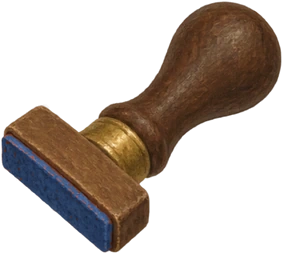
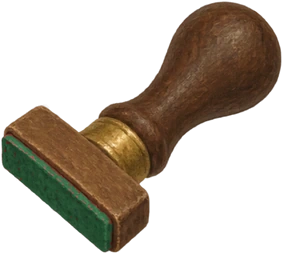
Onay mührü yeşil
Onay mührünün mürekkebi ve aracın lastiği maviden yeşile alındı
(Damga.RENKLER "yesil"; tools/sanat/ret_damgasi.py). Belgeler güncellendi.

Claude-Session: https://claude.ai/code/session_01VHuFWDfY6eBCXGfyDdiS8G

Changed region(s): [[0.0, 0.5236, 0.3958, 0.9921]]

diff --git a/tools/sanat/ret_damgasi.py b/tools/sanat/ret_damgasi.py
@@ -105,10 +105,10 @@ def main() -> None:
     cikti[..., 3] = (np.clip(ret, 0, 1) * 255).astype(np.uint8)
     Image.fromarray(cikti, "RGBA").save(DAMGA / "ret.webp", lossless=True, quality=100, method=6, exact=True)
 
-    # denetim: kırmızı mürekkeple kâğıt üstünde ret, mavi mürekkeple onay
+    # denetim: kırmızı mürekkeple kâğıt üstünde ret, yeşil mürekkeple onay
     HAM.mkdir(parents=True, exist_ok=True)
     sayfa = Image.new("RGB", (w * 2 + 60, h + 40), (243, 236, 219))
-    for i, (m, renk) in enumerate(((ret, (163, 38, 44)), (onay, (43, 74, 143)))):
+    for i, (m, renk) in enumerate(((ret, (163, 38, 44)), (onay, (31, 107, 60)))):
         murekkep = Image.new("RGB", (w, h), renk)
         sayfa.paste(murekkep, (20 + i * (w + 20), 20), Image.fromarray((np.clip(m, 0, 1) * 235).astype(np.uint8)))
     sayfa.save(HAM / "ret_denetim.png")
@@ -116,7 +116,7 @@ def main() -> None:
 
 
 def muhur_araclari() -> None:
-    """Tepsideki mühür görselinden iki araç üretir: lastiği mavi (onay) ve kırmızı (ret) mühür."""
+    """Tepsideki mühür görselinden iki araç üretir: lastiği yeşil (onay) ve kırmızı (ret) mühür."""
     import colorsys
     nesne = KOK / "assets" / "img" / "nesne"
     im = np.array(Image.open(nesne / "muhur.webp").convert("RGBA")).astype(np.float32) / 255.0
@@ -126,10 +126,11 @@ def muhur_araclari() -> None:
     lastik = ((ton < 9.0) | (ton > 346.0)) & (doygunluk > 0.50) & (im[..., 3] > 0.3)
     print("lastik pikseli:", int(lastik.sum()))
     Image.fromarray((im * 255).astype(np.uint8), "RGBA").save(nesne / "muhur_ret.webp", quality=95, method=6)
-    mavi = hsv.copy()
-    mavi[..., 0][lastik] = 218.0 / 360.0 * 255.0
-    mavi[..., 1][lastik] = np.clip(mavi[..., 1][lastik] * 0.92, 0, 255)
-    rgb = np.array(Image.fromarray(mavi.astype(np.uint8), "HSV").convert("RGB"))
+    yesil = hsv.copy()
+    yesil[..., 0][lastik] = 138.0 / 360.0 * 255.0
+    yesil[..., 1][lastik] = np.clip(yesil[..., 1][lastik] * 0.85, 0, 255)
+    yesil[..., 2][lastik] = np.clip(yesil[..., 2][lastik] * 0.82, 0, 255)
+    rgb = np.array(Image.fromarray(yesil.astype(np.uint8), "HSV").convert("RGB"))
     cikti = np.dstack([rgb, (im[..., 3] * 255).astype(np.uint8)])
     Image.fromarray(cikti, "RGBA").save(nesne / "muhur_onay.webp", quality=95, method=6)
     yan = Image.new("RGBA", (im.shape[1] * 2 + 30, im.shape[0] + 20), (52, 96, 70, 255))

diff --git a/README.md b/README.md
@@ -54,7 +54,7 @@ Her gün müdürün genelgesiyle başlar. Genelgeyi okuyup **Gişeyi Aç**'a bas
    aralarına bir çizgi çeker ve uyuşup uyuşmadıklarını söyler. Ad adla, tarih duvardaki takvimle,
    tutar tarifeyle, fotoğraf camdaki yüzle karşılaştırılır.
 3. **Karar verin.** Sağdaki tepsiden bir aracı alıp belgenin üstüne bırakın:
-   - **Onay mührü** (mavi lastikli): evrak tamsa. Belgeye mavi "ONAYLANMIŞTIR" basar.
+   - **Onay mührü** (yeşil lastikli): evrak tamsa. Belgeye yeşil "ONAYLANMIŞTIR" basar.
    - **Ret mührü** (kırmızı lastikli): kusur varsa. Gerekçeyi sorar; doğru gerekçeyi seçmek gerekir.
      Belgeye kırmızı "REDDEDİLMİŞTİR" basar, altına gerekçeyi yazar.
    - **Müdüre havale pusulası:** sahtecilikten şüphelenirseniz. Günde iki hakkınız vardır.
@@ -520,7 +520,7 @@ betiklerle hazırlandı:
 | `tools/sanat/dilimle.py` | Portre ve nesne sayfalarını saydamlık kanalından tek tek görsellere ayırır |
 | `tools/sanat/yuz_noktalari.py` | Her portrede göz, burun, ağız ve çene noktalarını bulur (OpenCV YuNet) |
 | `tools/sanat/agiz_kareleri.py` | "Ağzı açık" çeşitlemeleri ana portreye hizalar; alt yüzü yumuşak maskeyle keser |
-| `tools/sanat/ret_damgasi.py` | Ret mührünün izini eldeki boyalı damgaların harflerinden kurar; mühür aracının mavi ve kırmızı lastikli hâllerini üretir |
+| `tools/sanat/ret_damgasi.py` | Ret mührünün izini eldeki boyalı damgaların harflerinden kurar; mühür aracının yeşil ve kırmızı lastikli hâllerini üretir |
 | `tools/sanat/agiz_ara_kare.py` | Tek çeşitlemesi olan yüzlerde "hafif açık" kareyi açık kareden bükerek üretir (ağız boşluğunu daraltır) |
 | `tools/sanat/aile_figurleri.py` | Ev sahnesindeki tam boy figürleri dilimler |
 | `tools/sanat/vesikalik.py` | "Yıllar önceki hâli" çeşitlemelerinden vesikalıkları ve aranan resimlerini keser; yüz benzerliklerini ölçer (OpenCV SFace) |

diff --git a/docs/kontrol-listesi.md b/docs/kontrol-listesi.md
@@ -30,7 +30,7 @@ Her gün için: genelge okunuyor, gişe açılıyor, kuyruk işleniyor, gün son
 - [ ] Vatandaş yürüyerek geliyor, zil çalıyor, konuşurken ağzı oynuyor.
 - [ ] Belgeler sürükleniyor, çift tıkla büyüyüp küçülüyor, teleksin altına girmiyor.
 - [ ] İnceleme modunda (BOŞLUK) iki bilgi seçilince çizgi ve sonuç balonu çıkıyor.
-- [ ] Onay mührü (mavi lastikli): "BAM" sesi, kısa sarsıntı, belgede mavi "ONAYLANMIŞTIR".
+- [ ] Onay mührü (yeşil lastikli): "BAM" sesi, kısa sarsıntı, belgede yeşil "ONAYLANMIŞTIR".
 - [ ] Ret mührü (kırmızı lastikli): gerekçe penceresi açılıyor; seçince belgede kırmızı "REDDEDİLMİŞTİR" ve altında gerekçe.
 - [ ] Belge ya da defter tutulunca imleç el oluyor, nesne hafifçe büyüyüp öbürlerinin üstüne çıkıyor.
 - [ ] Yanlış kararda teleks ihtarı satır satır basıyor; pusula iğneye takılıyor.

diff --git a/docs/surum-notlari.md b/docs/surum-notlari.md
@@ -3,7 +3,7 @@
 ## 1.3.1 — ret mührü
 
 - **Ret mührü.** "Eksik evrak" fişinin yerini kırmızı lastikli bir mühür aldı: belgeye bırakılınca gerekçe
-  sorulur, belgeye kırmızı "REDDEDİLMİŞTİR" basılır ve altına gerekçe yazılır. Onay mührü mavi mürekkeple
+  sorulur, belgeye kırmızı "REDDEDİLMİŞTİR" basılır ve altına gerekçe yazılır. Onay mührü yeşil mürekkeple
   basar. İki mühür ıstampanın üstünde yan yana durur; altlarında "ONAY" ve "RET" etiketleri vardır.
 - **Havale koçanı düzeldi.** Koçanın görseli yarısından kesiliyor, üstündeki yazı yarım görünüyordu;
   artık tamamı görünür, kalan hak kâğıdın ortasında yazar.

diff --git a/docs/itch-sayfasi.md b/docs/itch-sayfasi.md
@@ -88,7 +88,7 @@ gazetenin birinci sayfasına yansır.
 | Fare ile sürükle | Belgeyi masada taşır |
 | Çift tık | Belgeyi büyütür / küçültür |
 | BOŞLUK ya da büyüteç | İnceleme modu |
-| Mührü belgeye bırak | Mavi mühür onaylar, kırmızı mühür reddeder |
+| Mührü belgeye bırak | Yeşil mühür onaylar, kırmızı mühür reddeder |
 | ESC | Mola (ayarlar burada) |
 | F11 | Tam ekran |
 
